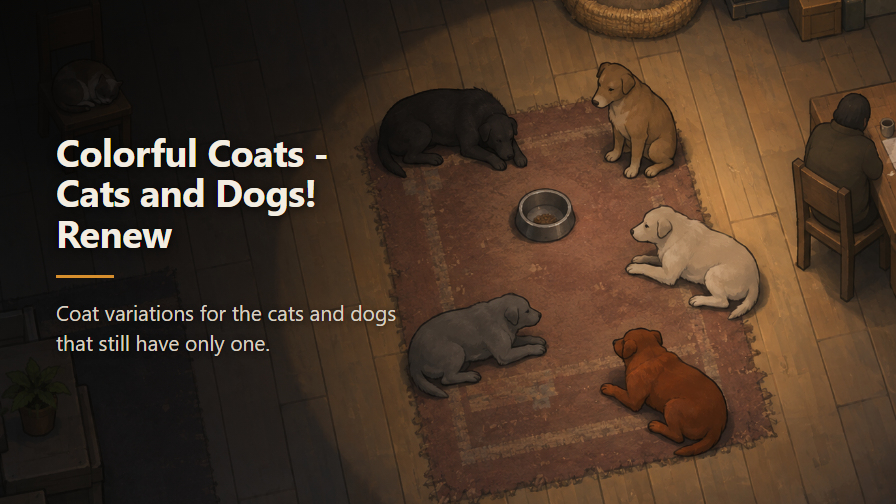
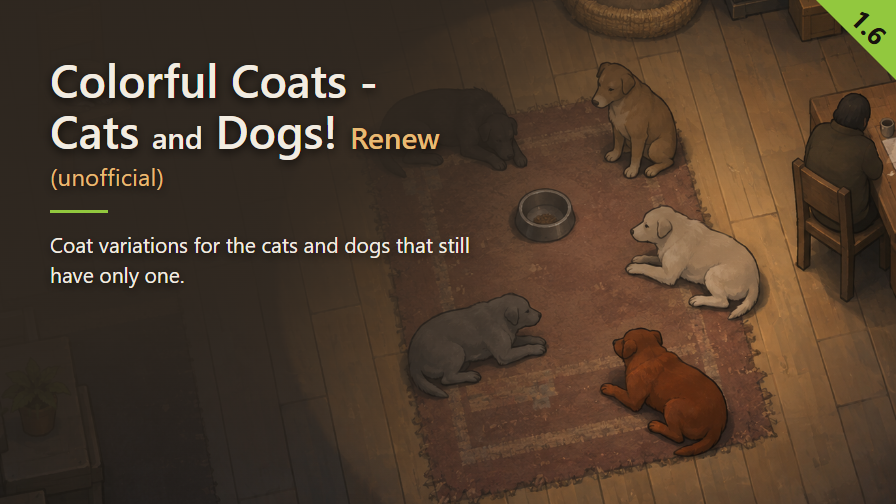
Recompose preview with title hierarchy and version badge

diff --git a/Art/preview.html b/Art/preview.html
@@ -1,56 +1,39 @@
-<!doctype html><meta charset="utf-8">
-<!--
-  Engraving page for Mod/About/Preview.png, per STYLE_RIMWORLD.md.
-
-  Rasterised with headless Chrome at 896x504, so the glyphs are composed at final size and never
-  resampled. The background is Preview-source.png at full resolution, scaled and cropped here
-  rather than beforehand: starting from an already-reduced Preview.png would resample the picture
-  twice.
-
-    chrome --headless --disable-gpu --screenshot=Mod/About/Preview.png \
-           --window-size=896,504 --hide-scrollbars Art/preview.html
-
-  The source is 1374x1145, which is close to 6:5, so most of the height has to go: 373 source
-  pixels of it. The crop sits low - object-position 50% 62% - because the bottom of the picture
-  is where the rust-coloured dog lies, and losing it would cost the banner its most saturated
-  coat. What goes is the basket and the stove along the top edge.
-
-  NO COUNT IS ENGRAVED, and that is the rule rather than an omission. Forty-one breeds is not a
-  number that depends on this repository: Stray Dogs, Let's Have a Cat! and Vanilla Animals
-  Expanded can each add a breed tomorrow, and every operation here is conditional on what those
-  mods do. It is the compatibility-mod case of STYLE_RIMWORLD.md - the number would go stale
-  without anyone touching the mod, so nothing would ever trigger a re-engraving.
--->
+<!doctype html><meta charset="utf-8"><title>Preview composition</title>
 <style>
-  * { margin:0; padding:0; box-sizing:border-box; }
-  html,body { width:896px; height:504px; overflow:hidden; background:#000; }
-  .stage { position:relative; width:896px; height:504px;
-           font-family:"Segoe UI",system-ui,sans-serif; }
-
-  .shot { position:absolute; inset:0; width:896px; height:504px;
-          object-fit:cover; object-position:50% 62%; }
-
-  /* Repository standard: radial darkening from the top-left, nil at 74%. Here it lands on the
-     bare plank floor to the left of the rug, which is already the darkest part of the picture -
-     the lamp pool stops short of it. */
-  .veil { position:absolute; inset:0;
-    background: radial-gradient(circle at 0% 0%, rgba(6,5,4,.86) 0%, rgba(6,5,4,0) 74%); }
-
-  /* The text sits below the sleeping cat rather than in the very corner: the cat is the one
-     thing in the upper left, and covering it would throw away the only sign that the mod is
-     about cats as well as dogs. */
-  .text { position:absolute; left:56px; top:132px; width:380px; }
-  h1 { font-size:38px; line-height:1.06; font-weight:700; color:#f2ece1;
-       letter-spacing:-.5px; text-shadow:0 2px 10px rgba(0,0,0,.7); }
-  .rule { width:58px; height:3px; background:#D68F2C; margin:22px 0 20px; }
-  p { font-size:21px; line-height:1.42; color:#d8cfc0; text-shadow:0 1px 6px rgba(0,0,0,.75); }
+*{margin:0;padding:0;box-sizing:border-box}html,body{width:896px;height:504px;overflow:hidden}body{font-family:"Segoe UI",system-ui,sans-serif}
+.art,.veil{position:absolute;inset:0;width:896px;height:504px}.art{object-fit:cover;object-position:50% 62%}
+.veil{background:radial-gradient(ellipse 1000px 760px at top left,rgba(var(--veilRGB),.94) 0%,rgba(var(--veilRGB),.90) 42%,rgba(var(--veilRGB),0) 85%)}
+.copy{position:absolute;left:50px;top:54px;text-shadow:0 3px 10px rgba(0,0,0,.75)}
+h1{font-size:46px;font-weight:600;line-height:1.1;letter-spacing:0;color:var(--inkPrimary);width:620px}
+h1 .link-word,h1 .suffix{font-size:.65em}h1 .suffix{color:var(--inkSecondary)}
+.tag{font-size:24px;font-weight:400;line-height:1.1;letter-spacing:.2px;margin-top:8px;color:var(--inkSecondary);width:max-content}
+.rule{width:58px;height:3px;margin-top:20px;margin-bottom:16px;background:var(--accent)}
+.summary{font-size:21px;font-weight:400;line-height:1.45;width:430px;color:var(--inkPrimary)}
+.badge{position:absolute;right:0;top:0;width:80px;height:80px;background:var(--accent);clip-path:polygon(0 0,100% 0,100% 100%)}
+.version{position:absolute;left:869px;top:27px;transform:translate(-50%,-50%) rotate(45deg);font-size:26px;font-weight:700;line-height:1;color:var(--badgeInk)}
+.background-only h1,.background-only .tag,.background-only .summary,.background-only .version{visibility:hidden}
 </style>
-<div class="stage">
-  <img class="shot" src="Preview-source.png">
-  <div class="veil"></div>
-  <div class="text">
-    <h1>Colorful Coats -<br>Cats and Dogs! Renew</h1>
-    <div class="rule"></div>
-    <p>Coat variations for the cats and dogs that still have only one.</p>
-  </div>
-</div>
+<img class="art" src="Preview.png"><div class="veil"></div>
+<div class="copy"><h1 id="title"></h1><div class="tag" id="tag"></div><div class="rule"></div><p class="summary">Coat variations for the cats and dogs that still have only one.</p></div>
+<div class="badge"></div><div class="version" id="version"></div>
+<script>
+window.ready=(async()=>{
+const palette=await(await fetch('preview-palette.json')).json();
+for(const [k,v] of Object.entries(palette))document.documentElement.style.setProperty('--'+k,v);
+document.documentElement.style.setProperty('--veilRGB',palette.veil.slice(1).match(/../g).map(x=>parseInt(x,16)).join(','));
+const about=new DOMParser().parseFromString(await(await fetch('../Mod/About/About.xml')).text(),'application/xml');
+const name=about.querySelector('ModMetaData > name').textContent;
+const tag=name.match(/\s*(\((?:unofficial|prohibited)\))$/);
+const title=name.replace(/\s*\((?:unofficial|prohibited)\)$/,'');
+const heading=document.querySelector('#title');
+for(const token of title.split(/(\band\b|\bRenew\b| - )/)){
+ if(token===' - '){heading.append(document.createTextNode(' -'),document.createElement('br'));}
+ else if(token==='and'||token==='Renew'){const span=document.createElement('span');span.className=token==='Renew'?'suffix':'link-word';span.textContent=token;heading.append(span);}
+ else heading.append(document.createTextNode(token));
+}
+document.querySelector('#tag').textContent=tag?tag[1]:'';if(!tag)document.querySelector('#tag').remove();
+const versions=[...about.querySelectorAll('supportedVersions > li')].map(x=>x.textContent.trim()).filter(x=>/^\d+\.\d+$/.test(x)).sort((a,b)=>{const x=a.split('.').map(Number),y=b.split('.').map(Number);return y[0]-x[0]||y[1]-x[1]});
+if(!versions.length)throw Error('No stable version');document.querySelector('#version').textContent=versions[0];
+await document.fonts.ready;await Promise.all([...document.images].map(x=>x.decode()));
+})();
+</script>

diff --git a/STATUS.md b/STATUS.md
@@ -118,3 +118,34 @@ to anyone — not a name, not an idea traceable to one mod, not a value derived 
    Pas de 1.6 et aucune licence/permission trouvee : silent. Source en 1.6 sans
    licence/permission : alive. Une licence ou permission explicite doit etre
    examinee avant de classer ; une interdiction ne devient pas silent.
+
+## Preview overlay recomposed — 2026-09-12
+
+- Source illustration: `Art/Preview.png`, copied unchanged from the existing
+  text-free `Art/Preview-source.png`. No illustration was generated or replaced.
+  The earlier generated lettering variant remains in `Art/Preview-unofficial-source.png`
+  for reference and is not used as the composition background.
+- Delivered image: `Mod/About/Preview.png`. Composition: `Art/preview.html`;
+  palette (single colour source): `Art/preview-palette.json`;
+  reproducible renderer and measurements: `Art/render-preview.cjs` and
+  `Art/preview-qa.json`. Run `node Art/render-preview.cjs`; set
+  `PREVIEW_NODE_MODULES` if the bundled Playwright/sharp modules live elsewhere.
+- Veil: dark, slightly desaturated wood tone from the broad plank floor.
+  Vivid accent: the green foliage of the two potted plants in the source, brightened and saturated for the
+  divider and badge. Secondary ink: the dominant warm ochre family of the
+  floorboards, lightened while retaining its golden colour for the tag and Renew suffix. The foliage green separates the accent from this dominant warm ochre family; it is a significant repeated scene detail, not an isolated pixel.
+- Actual platform fonts verified through Chrome: Segoe UI Semibold for the
+  46 px title, Segoe UI regular for tag and summary, Segoe UI Bold for version.
+  The renderer waits for `document.fonts.ready` and image decoding before capture.
+- Existing name and summary preserved. Strong words use 46 px; and and Renew use direct 0.65em spans (29.9 px), all at weight 600. The connector keeps primary ink, while Renew uses secondary ink. The unofficial status tag remains on its own line.
+  Badge version is read from the highest stable supportedVersions in delivered
+  About.xml (currently 1.6), with the prescribed triangle and rotated numerals.
+- Rendered at 896 x 504, then visually checked at 268 px wide
+  (`Art/preview-268.png`): title and version identifiable, divider visible,
+  no text clipping or overlapping text blocks; reduced title words readable and green accent distinct from golden secondary ink. Summary remains intended for
+  the full-size preview, as specified by the guide.
+- Minimum WCAG contrast over every pixel of each text block's background
+  rectangle, captured with lettering hidden: title 4.92:1, connector 12.31:1, Renew 7.60:1, summary 6.82:1,
+  tag 8.06:1. Badge digits against its opaque accent: 9.35:1.
+  Background-only proof: `Art/preview-background-qa.png`.
+- Final file: 506910 bytes, below 900 KB. No Steam publication performed.
